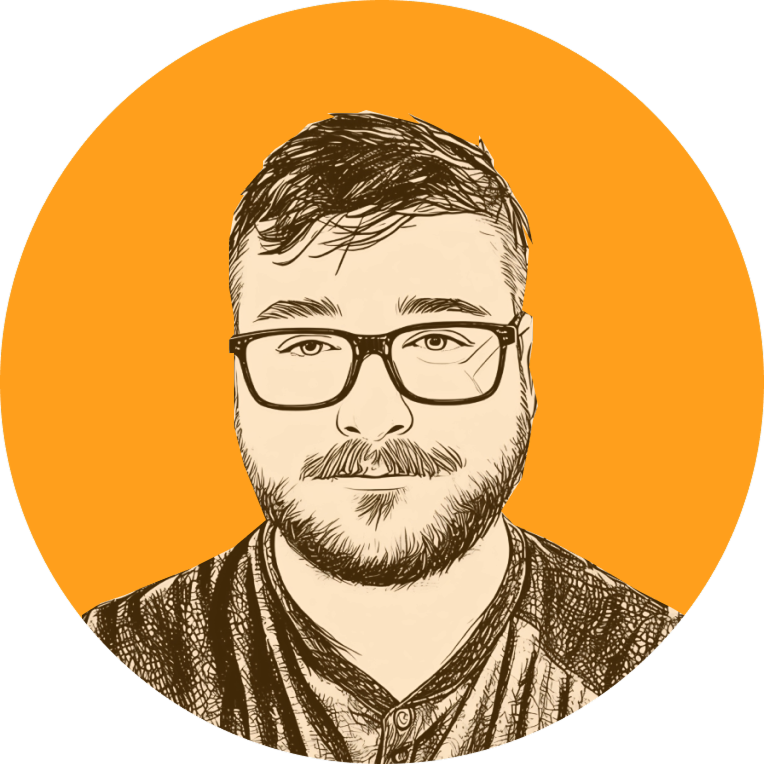
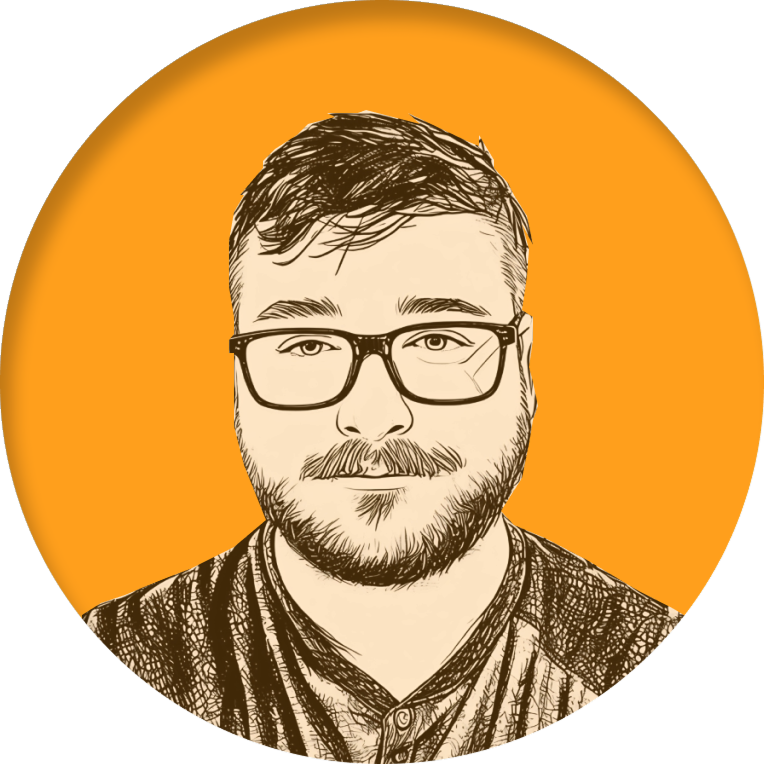
style: add various styling to existing components

diff --git a/src/components/Menu/ProjectsMenu.tsx b/src/components/Menu/ProjectsMenu.tsx
@@ -1,3 +1,4 @@
+import { useState, useEffect } from "react";
 import { useMenu } from "../../context/MenuContext";
 
 interface ProjectsMenuProps {
@@ -10,13 +11,30 @@ export default function ProjectsMenu({
   children,
 }: ProjectsMenuProps): React.ReactElement {
   const { menuSelection, handleMenuSelect } = useMenu();
+  const [isExpanded, setIsExpanded] = useState(false);
+  const [isAnimatingOut, setIsAnimatingOut] = useState(false);
+
   const menuListClass = "text-right pt-[24px] pr-[24px]";
   const menuBtnClass = "climate-crisis text-2xl uppercase text-th-db underline";
 
-  const isActive =
-    menuSelection.menuId === menuId ||
-    menuSelection.menuId.startsWith("project-");
+  const isActive = menuSelection.menuId === menuId;
+  const shouldShowSubmenu =
+    isActive || menuSelection.menuId.startsWith("project-");
   const hoverClass = isActive ? "" : "hover:drop-shadow-menu-item";
+
+  useEffect(() => {
+    if (shouldShowSubmenu && !isExpanded) {
+      setIsExpanded(true);
+      setIsAnimatingOut(false);
+    } else if (!shouldShowSubmenu && isExpanded) {
+      setIsAnimatingOut(true);
+      const timer = setTimeout(() => {
+        setIsExpanded(false);
+        setIsAnimatingOut(false);
+      }, 400); // Match animation duration
+      return () => clearTimeout(timer);
+    }
+  }, [shouldShowSubmenu]);
 
   const projects = [
     {
@@ -44,8 +62,12 @@ export default function ProjectsMenu({
           {children}
         </button>
       </li>
-      {isActive && (
-        <div className="animate-slide-down">
+      {isExpanded && (
+        <div
+          className={
+            isAnimatingOut ? "animate-slide-up-menu" : "animate-slide-down"
+          }
+        >
           {projects.map((project, index) => {
             const isProjectActive =
               menuSelection.menuId === `project-${project.id}`;
@@ -70,10 +92,7 @@ export default function ProjectsMenu({
                 >
                   {isProjectActive ? (
                     <>
-                      <span className="project-arrow animate-fade-in-staggered">
-                        ➜
-                      </span>{" "}
-                      {project.title}
+                      <span className="project-arrow">➜</span> {project.title}
                     </>
                   ) : (
                     project.title

diff --git a/src/index.css b/src/index.css
@@ -15,7 +15,7 @@
   --drop-shadow-title: -10px -6px 0 rgb(247, 23, 53);
   --drop-shadow-menu-item: -2px -2px 0 rgb(247, 23, 53);
   --drop-shadow-button: -8px -4px 0 rgb(247, 23, 53);
-  --drop-shadow-app: 0px 0px 20px rgb(23, 23, 22);
+  --drop-shadow-app: 0px 0px 60px rgb(0, 0, 0);
 }
 
 .barlow-bold {
@@ -74,18 +74,23 @@
   overflow: hidden;
 }
 
-/* Project menu item fade-in animation */
-@keyframes project-fade-in {
+/* ProjectsMenu slide-up animation */
+@keyframes slide-up-menu {
   0% {
-    opacity: 0;
+    max-height: 200px;
+    opacity: 1;
+    transform: translateY(0);
   }
   100% {
-    opacity: 1;
+    max-height: 0;
+    opacity: 0;
+    transform: translateY(-10px);
   }
 }
 
-.animate-project-fade-in {
-  animation: project-fade-in 0.6s ease-out both;
+.animate-slide-up-menu {
+  animation: slide-up-menu 0.4s ease-in both;
+  overflow: hidden;
 }
 
 @keyframes slide-up {
@@ -105,6 +110,20 @@
 
 .animate-slide-up {
   animation: slide-up 1s ease-out 0.3s both;
+}
+
+/* Project menu item fade-in animation */
+@keyframes project-fade-in {
+  0% {
+    opacity: 0;
+  }
+  100% {
+    opacity: 1;
+  }
+}
+
+.animate-project-fade-in {
+  animation: project-fade-in 0.6s ease-out both;
 }
 
 @keyframes fade-in {

diff --git a/src/components/Button.tsx b/src/components/Button.tsx
@@ -10,7 +10,7 @@ export default function Button({
 }: ButtonProps): React.ReactElement {
   return (
     <button
-      className="px-[24px] py-[6px] barlow-bold text-2xl rounded-xl bg-th-yw text-th-db border-2 hover:drop-shadow-button hover:text-th-yw hover:bg-th-db hover:border-color-th-yw transition-all duration-200"
+      className="px-[24px] py-[6px] barlow-bold text-2xl rounded-xl bg-th-yw text-th-db  hover:bg-th-rd transition-all duration-200"
       {...props}
     >
       {children}

diff --git a/src/components/Project.tsx b/src/components/Project.tsx
@@ -53,7 +53,7 @@ export default function Project({
         width="500"
       />
       <h1
-        className="climate-crisis text-[64px] uppercase pt-[30px] pl-[10px] text-th-yw drop-shadow-title animate-fade-in-staggered"
+        className="climate-crisis text-[40px] uppercase pt-[30px] pl-[10px] text-th-yw drop-shadow-title animate-fade-in-staggered"
         style={{ "--delay": "0.6s" } as React.CSSProperties}
       >
         {foundProject.title}

diff --git a/src/App.tsx b/src/App.tsx
@@ -30,7 +30,7 @@ function AppContent(): React.ReactElement {
 
 function App(): React.ReactElement {
   return (
-    <div className="min-h-screen bg-gradient-to-b from-th-rd-dark to-th-rd flex justify-center">
+    <div className="min-h-screen bg-[#202124] flex justify-center">
       <div className="w-full max-w-[1740px] drop-shadow-app">
         <MenuProvider>
           <AppContent />
